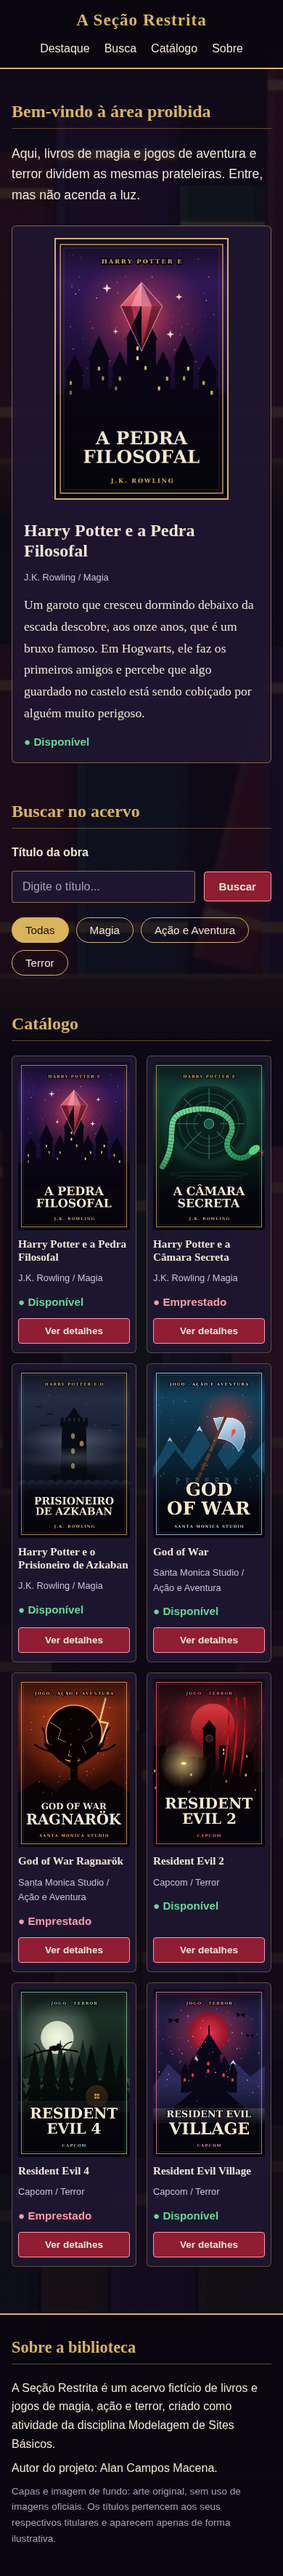
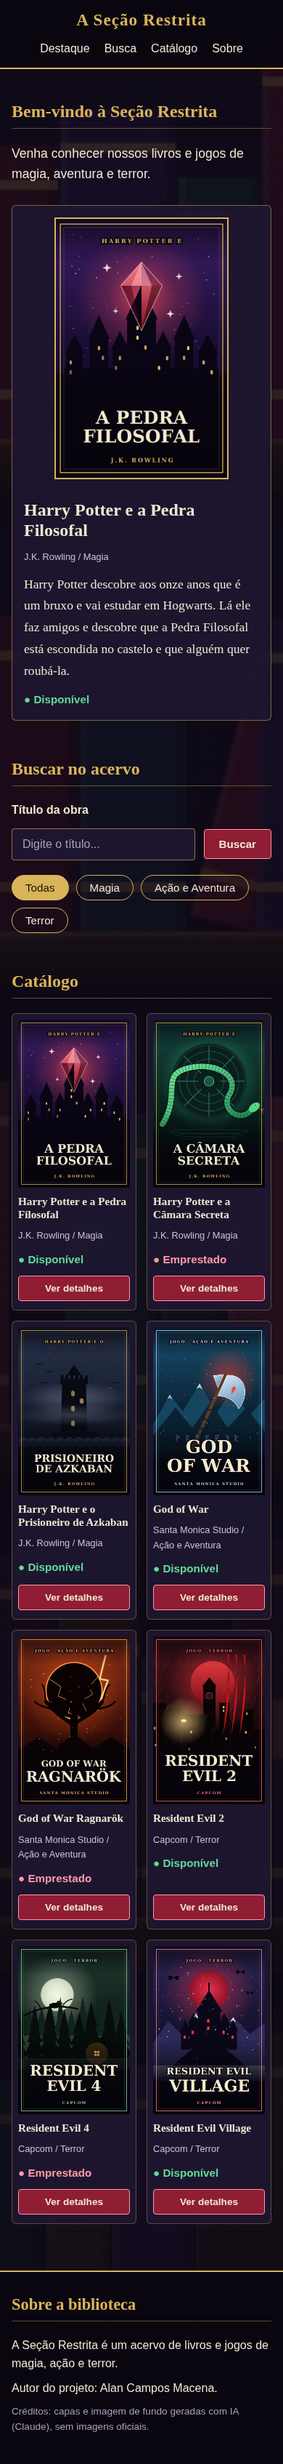
Add files via upload

diff --git a/index.html b/index.html
@@ -3,13 +3,11 @@
 <head>
     <meta charset="UTF-8">
     <meta name="viewport" content="width=device-width, initial-scale=1.0">
-    <meta name="description" content="A Seção Restrita: acervo de livros e jogos de magia, ação e terror.">
     <link rel="stylesheet" href="css/style.css">
     <title>A Seção Restrita</title>
 </head>
 <body>
 
-    <!-- 01 Cabeçalho: nome + menu com links internos -->
     <header class="topo">
         <h1 class="logo">A Seção Restrita</h1>
         <nav aria-label="Menu principal">
@@ -24,30 +22,28 @@
 
     <main>
 
-        <!-- 02 Apresentação e destaque -->
         <section id="destaque" class="secao">
-            <h2>Bem-vindo à área proibida</h2>
-            <p class="boas-vindas">Aqui, livros de magia e jogos de aventura e terror dividem as mesmas prateleiras. Entre, mas não acenda a luz.</p>
+            <h2>Bem-vindo à Seção Restrita</h2>
+            <p class="boas-vindas">Venha conhecer nossos livros e jogos de magia, aventura e terror.</p>
 
             <article class="livro-destaque">
-                <img src="img/capa-pedra-filosofal.png" alt="Capa autoral de Harry Potter e a Pedra Filosofal: uma gema vermelha brilhando sobre um castelo">
+                <img src="img/capa-pedra-filosofal.png" alt="Capa de Harry Potter e a Pedra Filosofal">
                 <div class="info-destaque">
                     <h3>Harry Potter e a Pedra Filosofal</h3>
                     <p class="meta">J.K. Rowling / Magia</p>
-                    <p class="sinopse">Um garoto que cresceu dormindo debaixo da escada descobre, aos onze anos, que é um bruxo famoso. Em Hogwarts, ele faz os primeiros amigos e percebe que algo guardado no castelo está sendo cobiçado por alguém muito perigoso.</p>
+                    <p class="sinopse">Harry Potter descobre aos onze anos que é um bruxo e vai estudar em Hogwarts. Lá ele faz amigos e descobre que a Pedra Filosofal está escondida no castelo e que alguém quer roubá-la.</p>
                     <p class="status disponivel">Disponível</p>
                 </div>
             </article>
         </section>
 
-        <!-- 03 Busca e categorias -->
         <section id="busca" class="secao">
             <h2>Buscar no acervo</h2>
-            <form class="form-busca" action="#catalogo">
+            <div class="form-busca" role="search">
                 <label for="campo-busca">Título da obra</label>
                 <input type="search" id="campo-busca" name="busca" placeholder="Digite o título...">
                 <button type="button" class="botao">Buscar</button>
-            </form>
+            </div>
 
             <ul class="filtros" aria-label="Categorias">
                 <li><button type="button" class="filtro ativo">Todas</button></li>
@@ -57,14 +53,13 @@
             </ul>
         </section>
 
-        <!-- 04 Catálogo: 8 obras, cards organizados com Flexbox -->
         <section id="catalogo" class="secao">
             <h2>Catálogo</h2>
 
             <div class="catalogo">
 
                 <article class="card">
-                    <img src="img/capa-pedra-filosofal.png" alt="Capa autoral de Harry Potter e a Pedra Filosofal">
+                    <img src="img/capa-pedra-filosofal.png" alt="Capa de Harry Potter e a Pedra Filosofal">
                     <h3>Harry Potter e a Pedra Filosofal</h3>
                     <p class="meta">J.K. Rowling / Magia</p>
                     <p class="status disponivel">Disponível</p>
@@ -72,7 +67,7 @@
                 </article>
 
                 <article class="card">
-                    <img src="img/capa-camara-secreta.png" alt="Capa autoral de Harry Potter e a Câmara Secreta: uma serpente verde diante de uma porta de pedra">
+                    <img src="img/capa-camara-secreta.png" alt="Capa de Harry Potter e a Câmara Secreta">
                     <h3>Harry Potter e a Câmara Secreta</h3>
                     <p class="meta">J.K. Rowling / Magia</p>
                     <p class="status emprestado">Emprestado</p>
@@ -80,7 +75,7 @@
                 </article>
 
                 <article class="card">
-                    <img src="img/capa-azkaban.png" alt="Capa autoral de Harry Potter e o Prisioneiro de Azkaban: uma torre escura cercada por névoa e mar">
+                    <img src="img/capa-azkaban.png" alt="Capa de Harry Potter e o Prisioneiro de Azkaban">
                     <h3>Harry Potter e o Prisioneiro de Azkaban</h3>
                     <p class="meta">J.K. Rowling / Magia</p>
                     <p class="status disponivel">Disponível</p>
@@ -88,7 +83,7 @@
                 </article>
 
                 <article class="card">
-                    <img src="img/capa-god-of-war.png" alt="Capa autoral de God of War: um machado de gelo diante de montanhas">
+                    <img src="img/capa-god-of-war.png" alt="Capa de God of War">
                     <h3>God of War</h3>
                     <p class="meta">Santa Monica Studio / Ação e Aventura</p>
                     <p class="status disponivel">Disponível</p>
@@ -96,7 +91,7 @@
                 </article>
 
                 <article class="card">
-                    <img src="img/capa-ragnarok.png" alt="Capa autoral de God of War Ragnarök: uma árvore sem folhas diante de um sol escuro e rachado">
+                    <img src="img/capa-ragnarok.png" alt="Capa de God of War Ragnarök">
                     <h3>God of War Ragnarök</h3>
                     <p class="meta">Santa Monica Studio / Ação e Aventura</p>
                     <p class="status emprestado">Emprestado</p>
@@ -104,7 +99,7 @@
                 </article>
 
                 <article class="card">
-                    <img src="img/capa-re2.png" alt="Capa autoral de Resident Evil 2: cidade escura sob lua vermelha e chuva">
+                    <img src="img/capa-re2.png" alt="Capa de Resident Evil 2">
                     <h3>Resident Evil 2</h3>
                     <p class="meta">Capcom / Terror</p>
                     <p class="status disponivel">Disponível</p>
@@ -112,7 +107,7 @@
                 </article>
 
                 <article class="card">
-                    <img src="img/capa-re4.png" alt="Capa autoral de Resident Evil 4: floresta sob lua cheia, com um corvo e uma cabana">
+                    <img src="img/capa-re4.png" alt="Capa de Resident Evil 4">
                     <h3>Resident Evil 4</h3>
                     <p class="meta">Capcom / Terror</p>
                     <p class="status emprestado">Emprestado</p>
@@ -120,7 +115,7 @@
                 </article>
 
                 <article class="card">
-                    <img src="img/capa-village.png" alt="Capa autoral de Resident Evil Village: castelo gótico nevado sob lua vermelha">
+                    <img src="img/capa-village.png" alt="Capa de Resident Evil Village">
                     <h3>Resident Evil Village</h3>
                     <p class="meta">Capcom / Terror</p>
                     <p class="status disponivel">Disponível</p>
@@ -132,12 +127,11 @@
 
     </main>
 
-    <!-- 05 Rodapé: descrição curta, autores e créditos -->
     <footer id="sobre" class="rodape">
         <h2>Sobre a biblioteca</h2>
-        <p>A Seção Restrita é um acervo fictício de livros e jogos de magia, ação e terror, criado como atividade da disciplina Modelagem de Sites Básicos.</p>
+        <p>A Seção Restrita é um acervo de livros e jogos de magia, ação e terror.</p>
         <p>Autor do projeto: Alan Campos Macena.</p>
-        <p class="creditos">Capas e imagem de fundo: arte original, sem uso de imagens oficiais. Os títulos pertencem aos seus respectivos titulares e aparecem apenas de forma ilustrativa.</p>
+        <p class="creditos">Créditos: capas e imagem de fundo geradas com IA (Claude), sem imagens oficiais.</p>
     </footer>
 
 </body>

diff --git a/style.css b/style.css
@@ -1,8 +1,3 @@
-/* ==========================================================
-   A SEÇÃO RESTRITA — style.css
-   ========================================================== */
-
-/* ---------- Variáveis: identidade visual em um só lugar ---------- */
 :root {
     --fundo: #130e1d;
     --painel: #1e1630;
@@ -16,7 +11,6 @@
     --fonte-texto: "Segoe UI", Roboto, Helvetica, Arial, sans-serif;
 }
 
-/* ---------- Reset ---------- */
 * {
     box-sizing: border-box;
     margin: 0;
@@ -38,7 +32,6 @@ body {
     line-height: 1.6;
 }
 
-/* Fundo da estante fixo, com camada escura por cima para o texto ficar legível */
 body::before {
     content: "";
     position: fixed;
@@ -64,7 +57,6 @@ h1, h2, h3 {
     line-height: 1.2;
 }
 
-/* ---------- Foco visível (teclado) ---------- */
 a:focus-visible,
 button:focus-visible,
 input:focus-visible {
@@ -72,7 +64,6 @@ input:focus-visible {
     outline-offset: 3px;
 }
 
-/* ---------- 01 Cabeçalho ---------- */
 .topo {
     display: flex;
     justify-content: space-between;
@@ -108,7 +99,6 @@ input:focus-visible {
     border-bottom-color: var(--dourado);
 }
 
-/* ---------- Seções ---------- */
 .secao {
     width: min(1120px, 100% - 32px);
     margin-inline: auto;
@@ -124,7 +114,6 @@ input:focus-visible {
     border-bottom: 1px solid rgba(217, 180, 90, 0.4);
 }
 
-/* ---------- 02 Destaque ---------- */
 .boas-vindas {
     max-width: 60ch;
     margin-bottom: 28px;
@@ -168,7 +157,6 @@ input:focus-visible {
     line-height: 1.7;
 }
 
-/* ---------- 03 Busca e categorias ---------- */
 .form-busca {
     display: flex;
     flex-wrap: wrap;
@@ -219,7 +207,6 @@ input:focus-visible {
     background-color: var(--dourado);
 }
 
-/* ---------- Botões (mesma aparência em todo o site) ---------- */
 .botao {
     padding: 11px 20px;
     font-size: 0.95rem;
@@ -235,7 +222,6 @@ input:focus-visible {
     background-color: #a8243d;
 }
 
-/* ---------- 04 Catálogo (Flexbox + flex-wrap) ---------- */
 .catalogo {
     display: flex;
     flex-wrap: wrap;
@@ -246,7 +232,7 @@ input:focus-visible {
     flex: 1 1 220px;
     max-width: 100%;
     min-width: 0;
-    display: flex;                 /* flex dentro de flex: o card organiza o que tem dentro */
+    display: flex;
     flex-direction: column;
     gap: 10px;
     padding: 12px 12px 16px;
@@ -273,10 +259,9 @@ input:focus-visible {
 }
 
 .card .botao {
-    margin-top: auto;              /* empurra o botão para o fim do card */
+    margin-top: auto;
 }
 
-/* Status em texto (e cor), nunca só a cor */
 .status {
     font-weight: 700;
     font-size: 0.95rem;
@@ -294,7 +279,6 @@ input:focus-visible {
     color: var(--vinho-claro);
 }
 
-/* ---------- 05 Rodapé ---------- */
 .rodape {
     margin-top: 56px;
     padding: 32px max(16px, calc((100% - 1120px) / 2));
@@ -316,7 +300,6 @@ input:focus-visible {
     color: #a99fbd;
 }
 
-/* ---------- Celular (até 600px) ---------- */
 @media (max-width: 600px) {
     .topo {
         padding: 14px 16px;
@@ -351,7 +334,7 @@ input:focus-visible {
     }
 
     .card {
-        flex: 1 1 calc(50% - 7px);  /* dois cards por linha no celular */
+        flex: 1 1 calc(50% - 7px);
         padding: 8px 8px 12px;
     }
 
